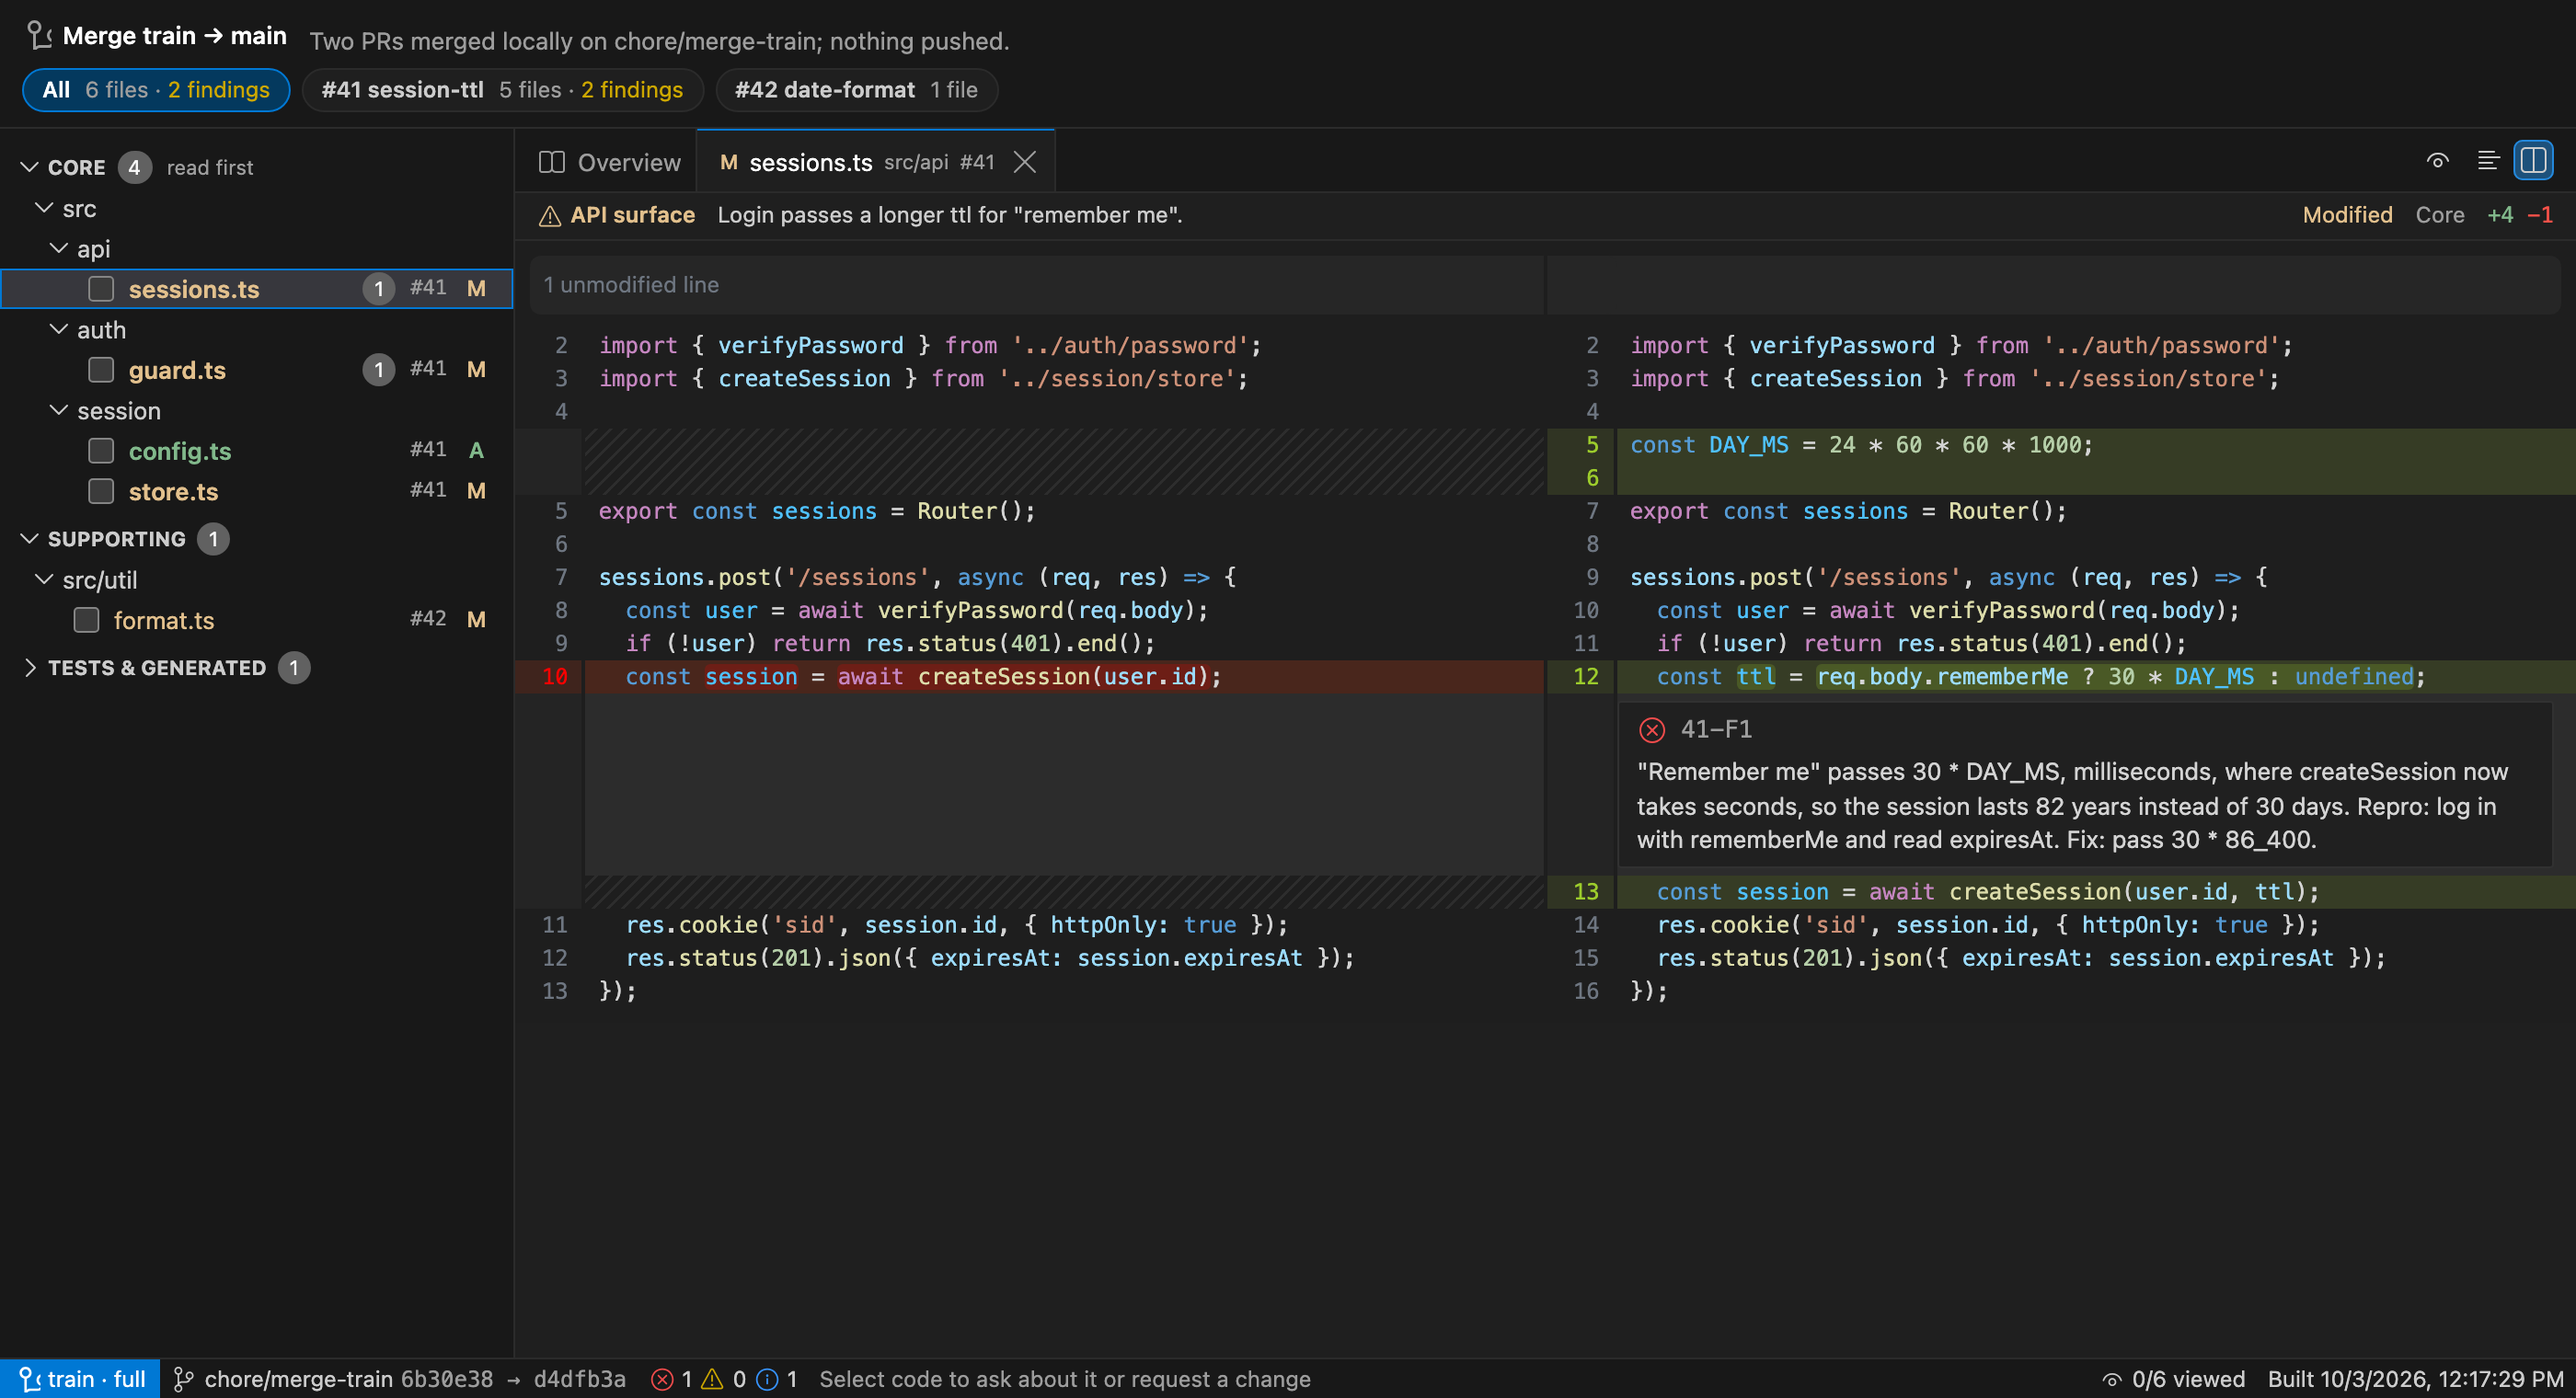
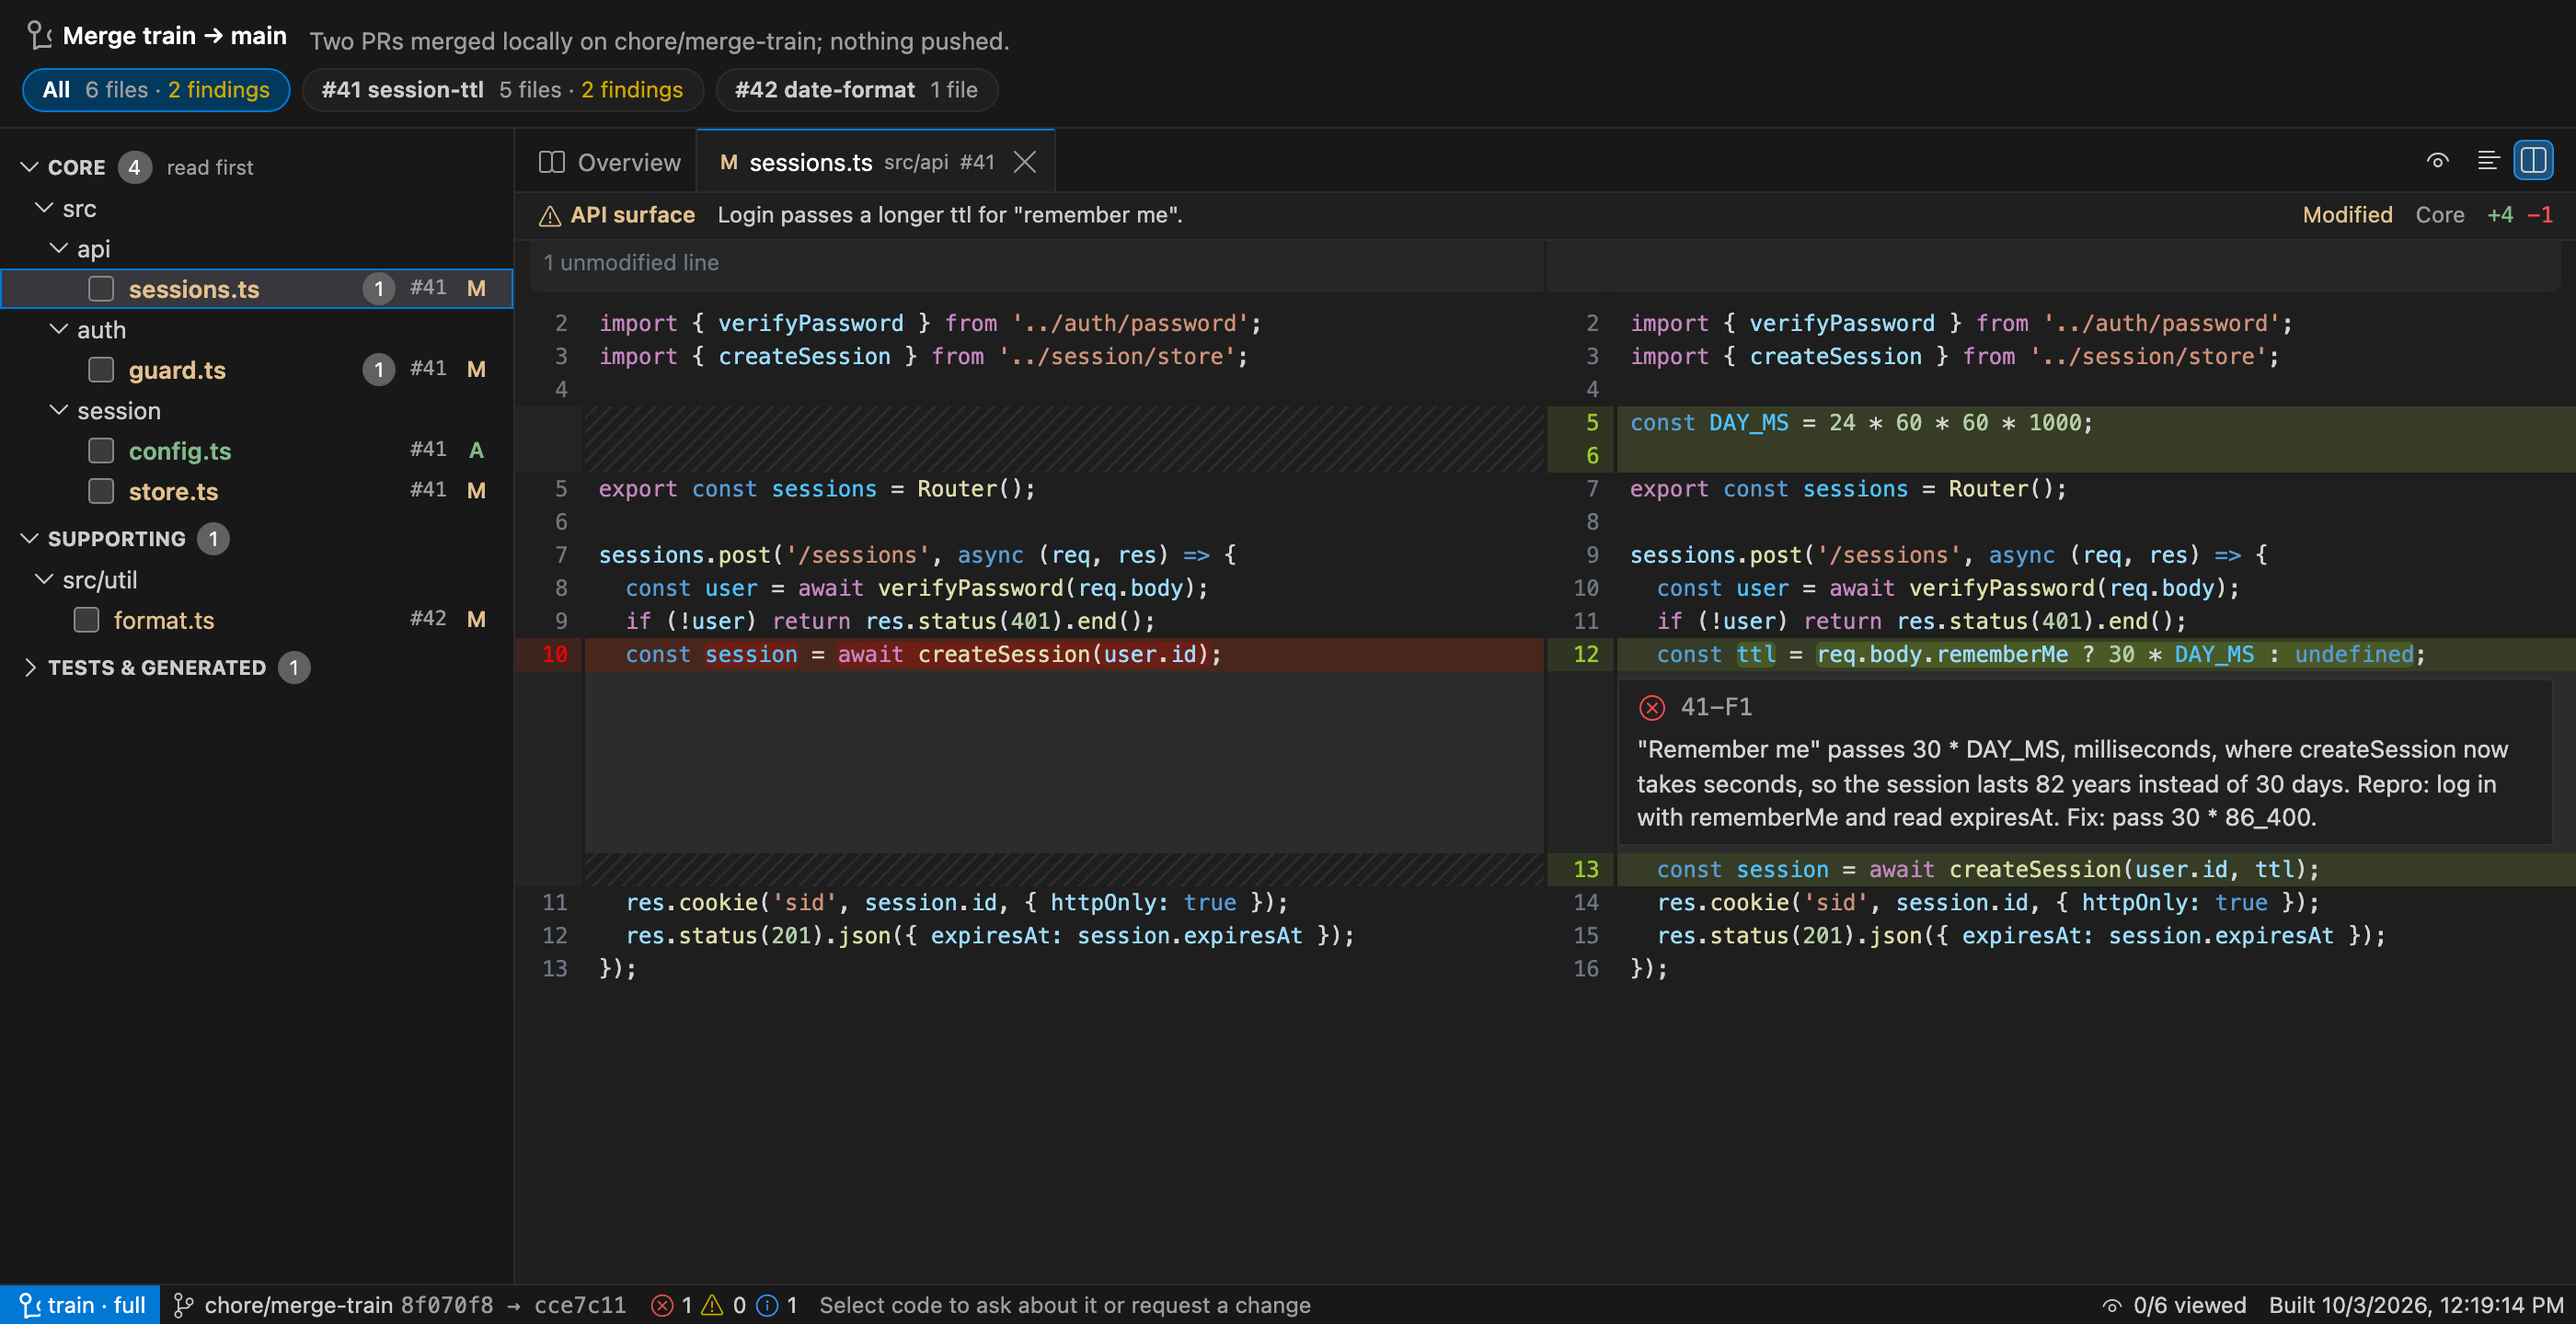
docs: fit the diff screenshot, caption between images

diff --git a/README.md b/README.md
@@ -9,6 +9,8 @@ Review findings sit on their lines, test results and open decisions sit beside t
 
 ![Overview of a two-PR merge train: files to read first, findings to check, checks and decisions](docs/overview.png)
 
+Click a finding and its diff opens with the finding under the line it is about:
+
 ![A diff in split view with a code-review finding pinned under the line it is about](docs/diff.png)
 
 ## How it works
